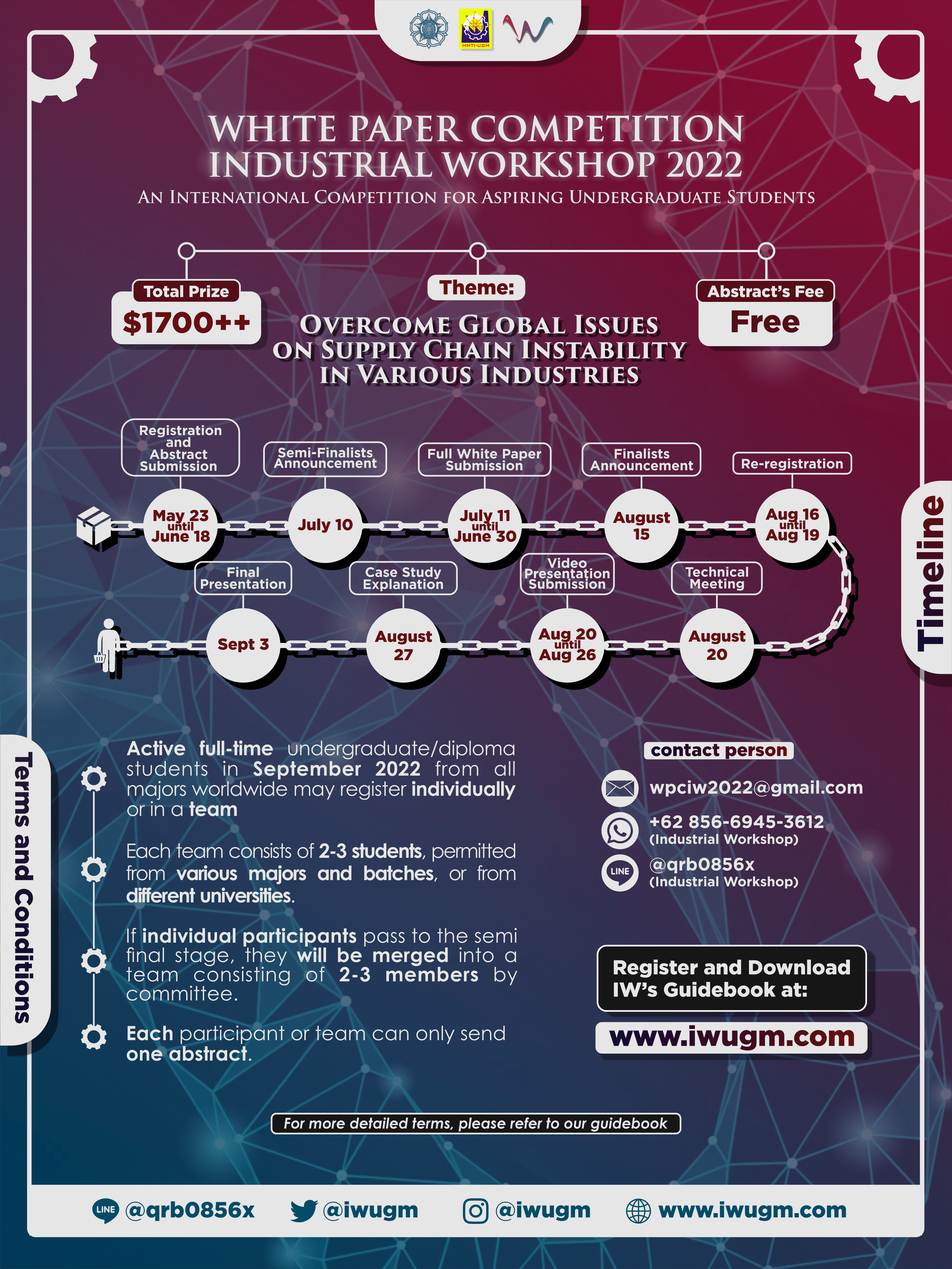
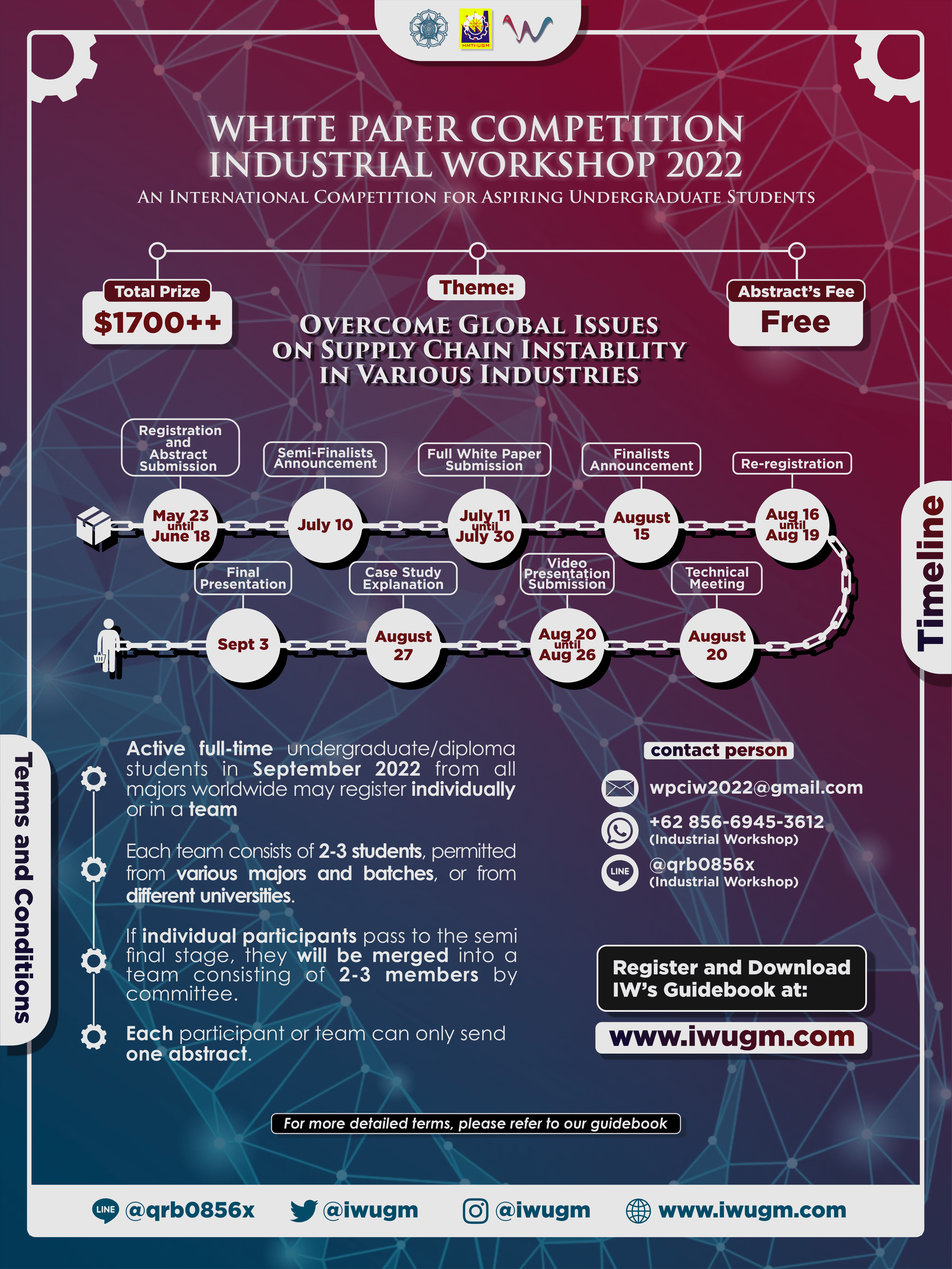
fix(styles)

diff --git a/src/pages/index.js b/src/pages/index.js
@@ -57,12 +57,12 @@ const IndexPage = () => {
 
           {/* About */}
           <section id="about" className="relative text-white bg-blue flex flex-col md:flex-row w-full">
-            <StaticImage
-              src='../images/about.webp'
-              alt="about"
-              className='w-full md:mr-4'
-              placeholder='none'
-            />
+              <StaticImage
+                src='../images/about.webp'
+                alt="about"
+                className='w-full md:mr-4'
+                placeholder='none'
+              />
             <div className='mt-8 ml-0 md:mt-0 md:ml-8'
                           data-sal="slide-left"
                           data-sal-duration="500"
@@ -75,7 +75,7 @@ const IndexPage = () => {
                 <br/><br/>
                 This year is the 10th year of the Industrial Workshop and will appoint issues on a global scale crisis with the Grand Theme of: 
                 <br/><br/>
-                <h3 className='font-deco'>“Supply Chain Instability”</h3>
+                <h3 className='font-deco font-bold'>“Supply Chain Instability”</h3>
                 <br/>
                 The Industrial Workshop will be divided into two branches of events: a Workshop with a simulation of case solving in the form of group games and a Seminar that will be filled with several sessions of presentations from different experienced speakers.
               </p>
@@ -99,12 +99,12 @@ const IndexPage = () => {
 
           {/* WPC */}
           <section id="wpc" className="relative text-white bg-black flex flex-col lg:flex-row w-full">
-          <StaticImage
-              src='../images/poster-wpc.png'
-              alt="WPC"
-              className='w-full md:mr-4 order-3'
-              placeholder='none'
-            />
+            <StaticImage
+                src='../images/poster-wpc.png'
+                alt="WPC"
+                className='w-full h-full md:mr-4 order-2'
+                placeholder='none'
+              />
             <div className='mt-8 mr-0 md:mt-0 md:mr-8 order-1'
                 data-sal="slide-right"
                 data-sal-duration="500"
@@ -115,7 +115,8 @@ const IndexPage = () => {
                   <br/><br/>
                   The theme of the 2022 Industrial Workshop White Paper Competition is 
                 </p>
-                <h4 className='font-deco'>“Overcome Global Issues on Supply Chain Instability in Various Industries“.</h4>
+                <br/>
+                <h3 className='font-deco font-bold'>“Overcome Global Issues on Supply Chain Instability in Various Industries“.</h3>
 
                 <br/>
                 <div className='grid grid-cols-3 md:grid-cols-4 justify-items-center p-5 gap-y-4 '
@@ -140,16 +141,6 @@ const IndexPage = () => {
               </div>
             </div>
           </section>
-
-          {/* WPC Poster */}
-          {/* <section className="flex justify-center w-full h-auto bg-black text-white">
-          <StaticImage
-              src='../images/poster-wpc.png'
-              alt="Poster WPC"
-              className='w-full md:w-1/4'
-              placeholder='none'
-            />
-          </section> */}
 
           {/* WPC Timeline */}
           <section className=" relative w-full h-auto bg-black text-white pt-0 pb-20">

diff --git a/src/components/DaftarTimeline.js b/src/components/DaftarTimeline.js
@@ -1,7 +1,9 @@
+import React from 'react';
+
 export const DaftarTimeline = [
     {
         title: 'Registration and Abstract Submission',
-        date: 'May 23 - June 18'
+        date: <span>May 23 <br/>- June 18</span>
     },
     {
         title: 'Semi-Finalists Announcement',
@@ -9,7 +11,7 @@ export const DaftarTimeline = [
     },
     {
         title: 'Full White Paper Submission',
-        date: 'July 11 - July 30'
+        date: <span>July 11 <br/>- July 30</span>
     },
     {
         title: 'Finalists Announcement',
@@ -17,7 +19,7 @@ export const DaftarTimeline = [
     },
     {
         title: 'Re-Registration',
-        date: 'August 16 - August 19'
+        date: <span>August 16 <br/>- August 19</span>
     },
     {
         title: 'Technical Meeting & Mentor Announcement',
@@ -25,7 +27,7 @@ export const DaftarTimeline = [
     },
     {
         title: 'Video Presentation Submission',
-        date: 'August 20 - August 26'
+        date: <span>August 20 <br/>- August 26</span>
     },
     {
         title: 'Case Study Explanation',

diff --git a/src/components/Timeline.js b/src/components/Timeline.js
@@ -42,16 +42,16 @@ const TimelineWPC = () => {
       {DaftarTimeline.map((item, index) => {
         return(
           <SwiperSlide>
-            <div className={`relative w-full h-60 flex flex-col rounded-xl items-center ${(index % 2 === 0) ? 'bg-blue text-white' : 'bg-white text-black'}`}
+            <div className={`relative w-full h-52 md:h-60 flex flex-col rounded-xl items-center ${(index % 2 === 0) ? 'bg-blue text-white' : 'bg-white text-black'}`}
                                   data-sal="flip-right"
                                   data-sal-duration="500"
                                   data-sal-easing="ease">
             <p className='absolute left-0 top-0 w-full p-4 font-light'>
               {item.date}
             </p>
-            <h4 className='absolute right-0 bottom-0 w-full text-right p-4 font-semibold'>
+            <h5 className='absolute right-0 bottom-0 w-full text-right p-4 font-semibold'>
               {item.title}
-            </h4>
+            </h5>
           </div>
           </SwiperSlide>
 

diff --git a/src/styles/globals.css b/src/styles/globals.css
@@ -40,6 +40,7 @@
   section{
     @apply p-8 md:p-16;
   }
+
 }
 
 @layer components {
@@ -51,7 +52,45 @@
     background-clip: text;
     -webkit-background-clip: text;
   }
-
+  
+  * {
+    box-sizing: border-box;
+  }
+  
+  /* Scroll Bar */
+  
+  ::-webkit-scrollbar {
+    width: 12px;
+    border-radius: 2px;
+    background-color: #f4f4f4;
+    box-shadow: inset 0px 0px 7px -3px rgba(0, 0, 0, 0.25); 
+  }
+  
+  ::-webkit-scrollbar-track{
+    margin-bottom: 2px;
+  }
+  
+  ::-webkit-scrollbar-thumb {
+    border-radius: 2px;
+    background-color: #2286aa;
+    box-shadow: 0px 0px 1px #2D3A74;
+  }
+  
+  ::-webkit-scrollbar-thumb:hover {
+    background-color: #196480;
+    box-shadow: 0px 0px 1px #2D3A74;
+  }
+  
+  ::-webkit-scrollbar-thumb:active {
+    background-color: #15546a;
+    box-shadow: 0px 0px 1px #2D3A74;
+  }
+  
+  /* [data-rmiz-wrap='visible'], [data-rmiz-wrap='hidden'] {
+    width: 100%;
+    height: 100%;
+    display: block;
+  } */
 }
 
 @layer utilities {
